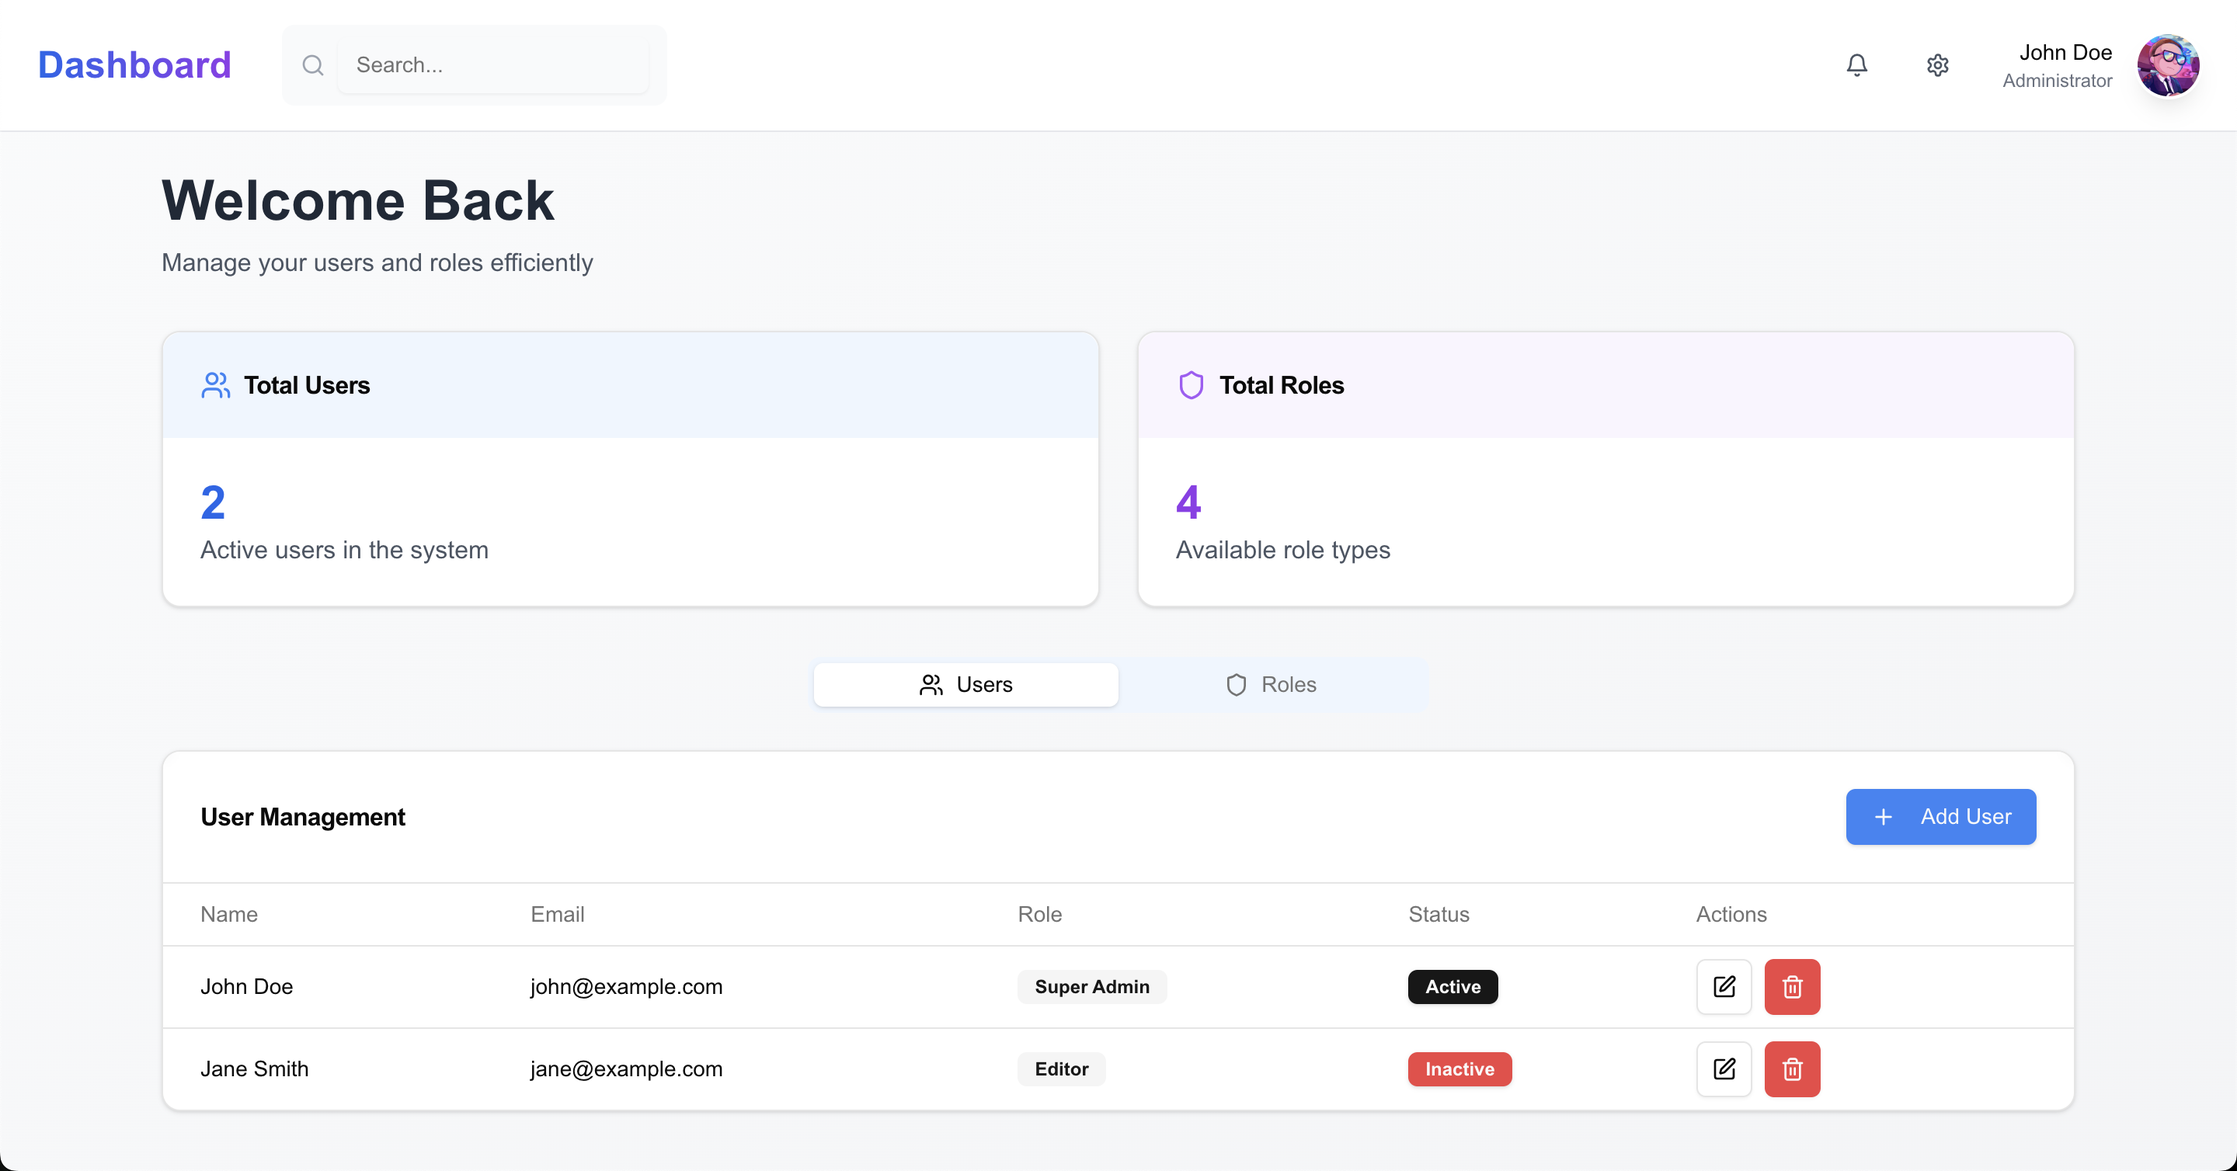
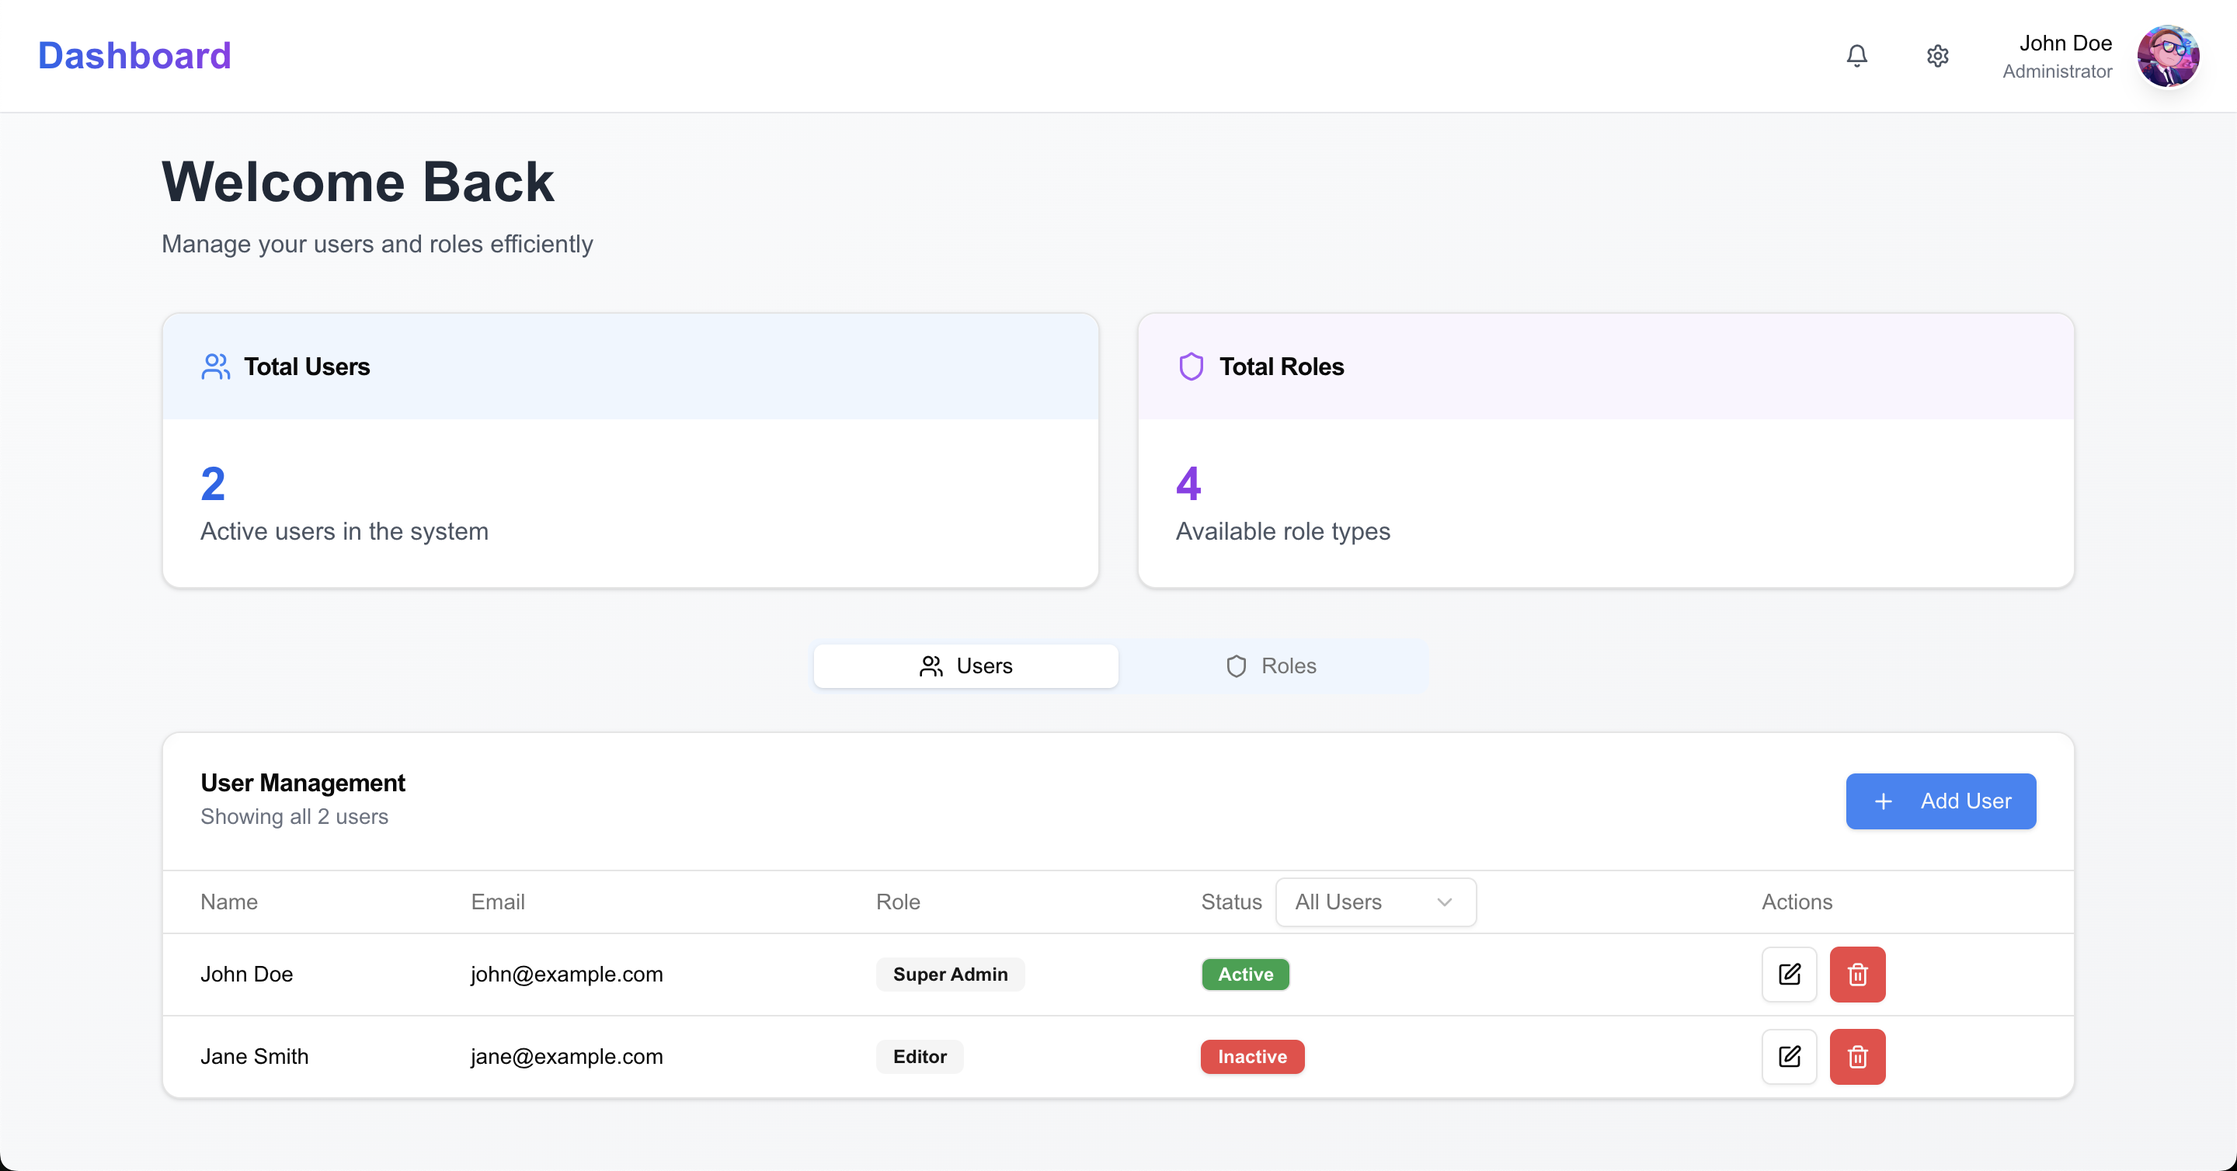
added sort and updated readme

diff --git a/components/Dashboard.jsx b/components/Dashboard.jsx
@@ -23,6 +23,14 @@ import UserModal from './UserModal';
 import RoleModal from './RoleModal';
 import { motion } from 'framer-motion';
 import { useToast } from "@/hooks/use-toast"
+import { 
+  Select, 
+  SelectContent, 
+  SelectItem, 
+  SelectTrigger, 
+  SelectValue 
+} from "@/components/ui/select";
+import { Checkbox } from "@/components/ui/checkbox"
 
 // Mock data structures
 const initialUsers = [
@@ -106,6 +114,8 @@ const Dashboard = () => {
   const [users, setUsers] = useState(initialUsers);
   const [roles, setRoles] = useState(initialRoles);
   const [selectedRole, setSelectedRole] = useState(null);
+  const [statusFilter, setSortOrder] = useState('all');
+  const [selectedPermissions, setSelectedPermissions] = useState([]);
 
   // User Management Functions
   const handleAddUser = (newUser) => {
@@ -243,6 +253,23 @@ const Dashboard = () => {
     );
   };
 
+  const formatPermissionName = (permission) => {
+    return permission
+      .split('_')
+      .map(word => word.charAt(0).toUpperCase() + word.slice(1))
+      .join(' ');
+  };
+
+  const filterRolesByPermissions = (role) => {
+    if (!Array.isArray(selectedPermissions) || selectedPermissions.length === 0) {
+      return true;
+    }
+    
+    return selectedPermissions.every(permission => 
+      role.permissions.includes(permission)
+    );
+  };
+
   return (
     <div className="min-h-screen bg-gradient-to-br from-gray-50 to-gray-100">
       <div className="container mx-auto p-6 space-y-8">
@@ -322,7 +349,15 @@ const Dashboard = () => {
               <Card className="bg-white overflow-hidden">
                 <CardHeader className="border-b bg-white/50 backdrop-blur-sm">
                   <div className="flex justify-between items-center">
-                    <CardTitle>User Management</CardTitle>
+                    <div>
+                      <CardTitle>User Management</CardTitle>
+                      <p className="text-sm text-gray-500 mt-1">
+                        {statusFilter === 'all' 
+                          ? `Showing all ${users.length} users`
+                          : `Showing ${users.filter(user => user.status === statusFilter).length} ${statusFilter} users`
+                        }
+                      </p>
+                    </div>
                     <UserModal 
                       onSubmit={handleAddUser} 
                       roles={roles}
@@ -342,7 +377,24 @@ const Dashboard = () => {
                           <TableHead className="pl-6">Name</TableHead>
                           <TableHead>Email</TableHead>
                           <TableHead>Role</TableHead>
-                          <TableHead>Status</TableHead>
+                          <TableHead>
+                            <div className="flex items-center gap-2">
+                              Status
+                              <Select
+                                value={statusFilter}
+                                onValueChange={setSortOrder}
+                              >
+                                <SelectTrigger className="w-[130px] h-8">
+                                  <SelectValue placeholder="Filter Status" />
+                                </SelectTrigger>
+                                <SelectContent>
+                                  <SelectItem value="all">All Users</SelectItem>
+                                  <SelectItem value="Active">Active</SelectItem>
+                                  <SelectItem value="Inactive">Inactive</SelectItem>
+                                </SelectContent>
+                              </Select>
+                            </div>
+                          </TableHead>
                           <TableHead className="pr-6">Actions</TableHead>
                         </TableRow>
                       </TableHeader>
@@ -350,44 +402,46 @@ const Dashboard = () => {
                         {users.length === 0 ? (
                           <EmptyState message="No users found. Add a new user to get started." />
                         ) : (
-                          users.map((user) => (
-                            <TableRow key={user.id} className="hover:bg-gray-50">
-                              <TableCell className="pl-6 font-medium">{user.name}</TableCell>
-                              <TableCell>{user.email}</TableCell>
-                              <TableCell>
-                                <Badge variant="secondary">{user.role}</Badge>
-                              </TableCell>
-                              <TableCell>
-                                <Badge 
-                                  variant={user.status === 'Active' ? 'success' : 'destructive'}
-                                  className={user.status === 'Active' ? 'bg-green-600 hover:bg-green-500 text-white' : ''}
-                                >
-                                  {user.status}
-                                </Badge>
-                              </TableCell>
-                              <TableCell className="pr-6">
-                                <div className="flex space-x-2">
-                                  <UserModal 
-                                    user={user}
-                                    onSubmit={handleEditUser}
-                                    roles={roles}
-                                    triggerButton={
-                                      <Button size="icon" variant="outline">
-                                        <Edit className="h-4 w-4" />
-                                      </Button>
-                                    }
-                                  />
-                                  <Button 
-                                    size="icon" 
-                                    variant="destructive"
-                                    onClick={() => handleDeleteUser(user.id)}
+                          users
+                            .filter(user => statusFilter === 'all' || user.status === statusFilter)
+                            .map((user) => (
+                              <TableRow key={user.id} className="hover:bg-gray-50">
+                                <TableCell className="pl-6 font-medium">{user.name}</TableCell>
+                                <TableCell>{user.email}</TableCell>
+                                <TableCell>
+                                  <Badge variant="secondary">{user.role}</Badge>
+                                </TableCell>
+                                <TableCell>
+                                  <Badge 
+                                    variant={user.status === 'Active' ? 'success' : 'destructive'}
+                                    className={user.status === 'Active' ? 'bg-green-600 hover:bg-green-500 text-white' : ''}
                                   >
-                                    <Trash2 className="h-4 w-4" />
-                                  </Button>
-                                </div>
-                              </TableCell>
-                            </TableRow>
-                          ))
+                                    {user.status}
+                                  </Badge>
+                                </TableCell>
+                                <TableCell className="pr-6">
+                                  <div className="flex space-x-2">
+                                    <UserModal 
+                                      user={user}
+                                      onSubmit={handleEditUser}
+                                      roles={roles}
+                                      triggerButton={
+                                        <Button size="icon" variant="outline">
+                                          <Edit className="h-4 w-4" />
+                                        </Button>
+                                      }
+                                    />
+                                    <Button 
+                                      size="icon" 
+                                      variant="destructive"
+                                      onClick={() => handleDeleteUser(user.id)}
+                                    >
+                                      <Trash2 className="h-4 w-4" />
+                                    </Button>
+                                  </div>
+                                </TableCell>
+                              </TableRow>
+                            ))
                         )}
                       </TableBody>
                     </Table>
@@ -406,9 +460,18 @@ const Dashboard = () => {
               <Card className="bg-white overflow-hidden">
                 <CardHeader className="border-b bg-white/50 backdrop-blur-sm">
                   <div className="flex justify-between items-center">
-                    <CardTitle>Role Management</CardTitle>
+                    <div>
+                      <CardTitle>Role Management</CardTitle>
+                      <p className="text-sm text-gray-500 mt-1">
+                        {selectedPermissions.length === 0 
+                          ? `Showing all ${roles.length} roles`
+                          : `Showing ${roles.filter(role => 
+                              selectedPermissions.every(p => role.permissions.includes(p))
+                            ).length} roles with selected permissions`
+                        }
+                      </p>
+                    </div>
                     <RoleModal 
-                      role={selectedRole} 
                       onSubmit={handleRoleSubmit}
                       permissions={permissionsList}
                       triggerButton={
@@ -425,7 +488,64 @@ const Dashboard = () => {
                       <TableHeader>
                         <TableRow className="hover:bg-gray-50">
                           <TableHead className="pl-6">Role Name</TableHead>
-                          <TableHead>Permissions</TableHead>
+                          <TableHead>
+                            <div className="flex items-center gap-2">
+                              Permissions
+                              <Select>
+                                <SelectTrigger className="w-[280px] h-8">
+                                  <SelectValue placeholder="Filter by Permissions">
+                                    {selectedPermissions.length > 0 
+                                      ? `${selectedPermissions.length} permission${selectedPermissions.length > 1 ? 's' : ''} selected`
+                                      : "All Permissions"
+                                    }
+                                  </SelectValue>
+                                </SelectTrigger>
+                                <SelectContent className="max-h-[300px]">
+                                  <div className="space-y-2 p-2">
+                                    {permissionsList.map((permission) => (
+                                      <div
+                                        key={permission}
+                                        className="flex items-center space-x-2"
+                                      >
+                                        <Checkbox
+                                          id={permission}
+                                          checked={selectedPermissions.includes(permission)}
+                                          onCheckedChange={(checked) => {
+                                            setSelectedPermissions(prev => {
+                                              if (checked) {
+                                                return [...prev, permission];
+                                              } else {
+                                                return prev.filter(p => p !== permission);
+                                              }
+                                            });
+                                          }}
+                                        />
+                                        <label
+                                          htmlFor={permission}
+                                          className="text-sm font-medium leading-none peer-disabled:cursor-not-allowed peer-disabled:opacity-70"
+                                        >
+                                          {formatPermissionName(permission)}
+                                        </label>
+                                      </div>
+                                    ))}
+                                    {selectedPermissions.length > 0 && (
+                                      <Button
+                                        variant="ghost"
+                                        size="sm"
+                                        onClick={(e) => {
+                                          e.stopPropagation();
+                                          setSelectedPermissions([]);
+                                        }}
+                                        className="w-full mt-4"
+                                      >
+                                        Clear All
+                                      </Button>
+                                    )}
+                                  </div>
+                                </SelectContent>
+                              </Select>
+                            </div>
+                          </TableHead>
                           <TableHead className="pr-6">Actions</TableHead>
                         </TableRow>
                       </TableHeader>
@@ -433,41 +553,48 @@ const Dashboard = () => {
                         {roles.length === 0 ? (
                           <EmptyState message="No roles found. Add a new role to get started." />
                         ) : (
-                          roles.map((role) => (
-                            <TableRow key={role.id} className="hover:bg-gray-50">
-                              <TableCell className="pl-6 font-medium">{role.name}</TableCell>
-                              <TableCell>
-                                <div className="flex flex-wrap gap-3 py-2">
-                                  {role.permissions.map((perm) => (
-                                    <Badge key={perm} variant="secondary">
-                                      {perm}
-                                    </Badge>
-                                  ))}
-                                </div>
-                              </TableCell>
-                              <TableCell className="pr-6">
-                                <div className="flex space-x-2">
-                                  <RoleModal 
-                                    role={role}
-                                    onSubmit={handleRoleSubmit}
-                                    permissions={permissionsList}
-                                    triggerButton={
-                                      <Button size="icon" variant="outline">
-                                        <Edit className="h-4 w-4" />
-                                      </Button>
-                                    }
-                                  />
-                                  <Button 
-                                    size="icon" 
-                                    variant="destructive"
-                                    onClick={() => handleDeleteRole(role.id)}
-                                  >
-                                    <Trash2 className="h-4 w-4" />
-                                  </Button>
-                                </div>
-                              </TableCell>
-                            </TableRow>
-                          ))
+                          roles
+                            .filter(filterRolesByPermissions)
+                            .map((role) => (
+                              <TableRow key={role.id} className="hover:bg-gray-50">
+                                <TableCell className="pl-6 font-medium">{role.name}</TableCell>
+                                <TableCell>
+                                  <div className="flex flex-wrap gap-3 py-2">
+                                    {role.permissions.map((perm) => (
+                                      <Badge 
+                                        key={perm} 
+                                        variant="secondary"
+                                        className={selectedPermissions.includes(perm) ? 
+                                          "bg-purple-100 text-purple-800 border-purple-200" : ""}
+                                      >
+                                        {formatPermissionName(perm)}
+                                      </Badge>
+                                    ))}
+                                  </div>
+                                </TableCell>
+                                <TableCell className="pr-6">
+                                  <div className="flex space-x-2">
+                                    <RoleModal 
+                                      role={role}
+                                      onSubmit={handleRoleSubmit}
+                                      permissions={permissionsList}
+                                      triggerButton={
+                                        <Button size="icon" variant="outline">
+                                          <Edit className="h-4 w-4" />
+                                        </Button>
+                                      }
+                                    />
+                                    <Button 
+                                      size="icon" 
+                                      variant="destructive"
+                                      onClick={() => handleDeleteRole(role.id)}
+                                    >
+                                      <Trash2 className="h-4 w-4" />
+                                    </Button>
+                                  </div>
+                                </TableCell>
+                              </TableRow>
+                            ))
                         )}
                       </TableBody>
                     </Table>

diff --git a/README.md b/README.md
@@ -82,7 +82,6 @@ yarn dev
 - `npm run dev` - Start development server
 - `npm run build` - Build for production
 - `npm start` - Start production server
-- `npm run lint` - Run ESLint
 
 ## Role Types
 
@@ -141,8 +140,3 @@ This project is licensed under the MIT License - see the [LICENSE.md](LICENSE.md
 - [Framer Motion](https://www.framer.com/motion/)
 - [Lucide Icons](https://lucide.dev/)
 
-## Contact
-
-Your Name - [@yourtwitter](https://twitter.com/yourtwitter)
-
-Project Link: [https://github.com/yourusername/role-based-access-control-ui](https://github.com/yourusername/role-based-access-control-ui)
